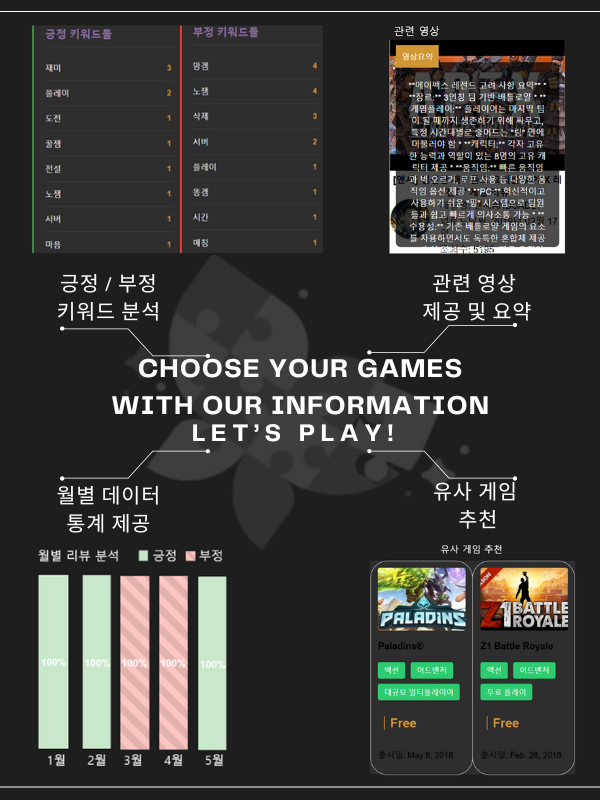
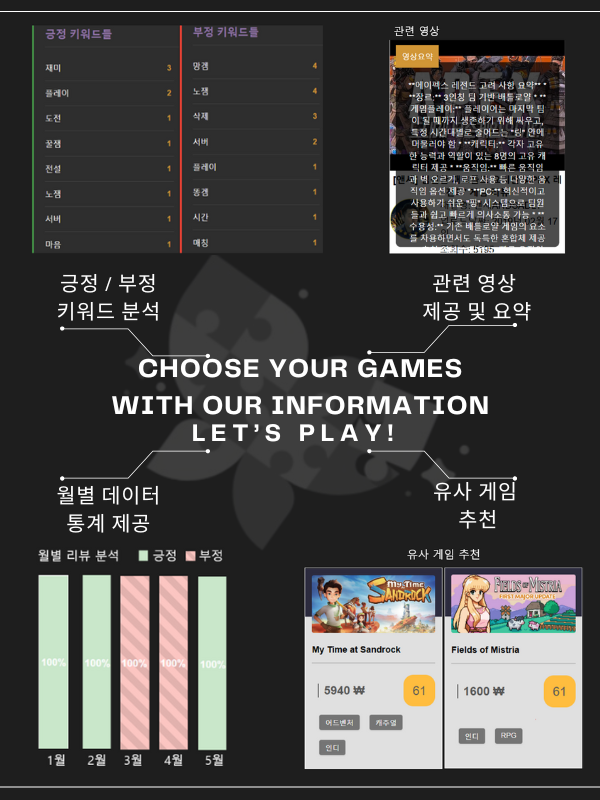
유사게임 카드 변경된 배너이미지, dashboard 수정

Changed region(s): [[0.48, 0.6562, 0.99, 0.9688]]

diff --git a/navi_취합_20241218/templates/dashboard.html b/navi_취합_20241218/templates/dashboard.html
@@ -21,15 +21,6 @@
 <div class="container">
     <div class="multi">
             <h1>{{ game.name }}</h1>
-            {% if positive_ratio == 0 %}
-                <span class="badge gray">{{ positive_ratio }}</span>
-            {% elif positive_ratio > 70 %}
-                <span class="badge green">{{ positive_ratio }}</span>
-            {% elif positive_ratio > 40 %}
-                <span class="badge yellow">{{ positive_ratio }}</span>
-            {% else %}
-                <span class="badge red">{{ positive_ratio }}</span>
-            {% endif %}
             <div class="buttons">
                 <button class="png" onclick="saveImg()">저장</button>
                 <button class="talk" onclick="kakaoShare()">공유</button>
@@ -279,7 +270,24 @@
 
             <div class="info">
                 <div class="info-section">
-                    <div class="info-section-title">카테고리:</div>
+                    <div class="info-section-title">분석 결과</div>
+                        <div class="info-list">
+                                <div class="positive_negative_ratio">
+                                {% if positive_ratio == 0 %}
+                                    <span class="badge gray">{{ positive_ratio }}</span>
+                                {% elif positive_ratio > 70 %}
+                                    <span class="badge green">{{ positive_ratio }}</span>
+                                {% elif positive_ratio > 40 %}
+                                    <span class="badge yellow">{{ positive_ratio }}</span>
+                                {% else %}
+                                    <span class="badge red">{{ positive_ratio }}</span>
+                                {% endif %}
+                                    <img src="{% static 'imgs/logo.png' %}" alt="Logo" style="width: 270px; height: auto;">
+                                </div>
+                        </div>
+                </div>
+                <div class="info-section">
+                    <div class="info-section-title">카테고리</div>
                     <div class="info-list">
                         {% for category in game.categories %}
                             <span class="info-tag">{{ category.description }}</span>
@@ -288,7 +296,7 @@
                 </div>
 
                 <div class="info-section">
-                    <div class="info-section-title">장르:</div>
+                    <div class="info-section-title">장르</div>
                     <div class="info-list">
                         {% for genre in game.genres %}
                             <span class="info-tag">{{ genre.description }}</span>
@@ -297,7 +305,7 @@
                 </div>
 
               <div class="info-section">
-                    <div class="info-section-title">태그:</div>
+                    <div class="info-section-title">태그</div>
                     <div class="info-list">
                         {% for tag in game.tags %}
                             <span class="info-tag"><a href="{% url 'tags' %}?tag={{ tag }}">{{ tag }}</a></span>
@@ -306,7 +314,7 @@
                 </div>
 
                 <div class="info-section">
-                    <div class="info-section-title">지원 언어:</div>
+                    <div class="info-section-title">지원 언어</div>
                     <div class="info-list">
                         {% for language in game.supported_languages %}
                             <span class="info-tag">{{ language }}</span>
@@ -315,14 +323,14 @@
                 </div>
 
                 <div class="info-section">
-                    <div class="info-section-title">출시일:</div>
+                    <div class="info-section-title">출시일</div>
                     <div class="info-list">
                             <span class="info-tag">{{ game.release_date }}</span>
                     </div>
                 </div>
 
                 <div class="info-section">
-                    <div class="info-section-title">개발사:</div>
+                    <div class="info-section-title">개발사</div>
                     <div class="info-list">
                         {% for developer in game.developers %}
                             <span class="info-tag">{{ developer }}</span>
@@ -331,7 +339,7 @@
                 </div>
 
                 <div class="info-section">
-                    <div class="info-section-title">배급사:</div>
+                    <div class="info-section-title">배급사</div>
                     <div class="info-list">
                         {% for publisher in game.publishers %}
                             <span class="info-tag">{{ publisher }}</span>
@@ -340,7 +348,7 @@
                 </div>
 
                 <div class="info-section">
-                    <div class="info-section-title">PC 요구 사항:</div>
+                    <div class="info-section-title">PC 요구 사항</div>
                     <div class="info-list">
                         {% for requirment in game.pc_requirements %}
                             <span class="info-tag">{{ requirment }}</span><br>

diff --git a/navi_취합_20241218/static/css/dashboard.css b/navi_취합_20241218/static/css/dashboard.css
@@ -1,4 +1,5 @@
 .container {
+    background-color: e0e0e0;
     width: 80%;
     max-width: 100%;
     margin: 0 auto;
@@ -70,7 +71,7 @@
     background-color: #ffffff;
     padding: 15px;
     border: 1px solid #ccc;
-    max-width: 100%;
+    flex-basis: 66.66%;
     overflow: hidden;
     box-sizing: border-box;
 }
@@ -79,6 +80,7 @@
     background-color: #f5f5f5;
     padding: 15px;
     border: 1px solid #ccc;
+    flex-basis: 33.33%;
 }
 
 
@@ -312,6 +314,7 @@
 .card-container {
     display: flex;
     justify-content: space-between;
+    position: relative;
     overflow-x: auto;
     width: 100%;
     gap:5px;
@@ -326,6 +329,7 @@
     display: flex;
     flex-direction: column;
     position: relative;
+    z-index: 0;
 }
 .card:hover {
     cursor: pointer;
@@ -498,11 +502,30 @@ button.purchase-btn:hover {
 .info-list {
     display: flex;
     flex-wrap: wrap;
-    gap: 10px;
+    align-items: center;
+}
+.positive_negative_ratio {
+    display: flex;
+    margin-left: 20px;
+    align-items: center;
+    gap: 20px;
 }
 
 .info-tag {
-    background-color: #2ecc71;
+    background-color: #757575;
+    color: white;
+    flex-wrap: wrap;
+    padding: 6px 12px;
+    font-size: 0.9em;
+    border-radius: 4px;
+    box-shadow: 0 1px 2px rgba(0, 0, 0, 0.1);
+    transition: background-color 0.3s ease;
+    text-decoration: none;
+    margin: 5px;
+
+}
+.info-tag a {
+    background-color: #757575;
     color: white;
     padding: 6px 12px;
     font-size: 0.9em;
@@ -510,6 +533,13 @@ button.purchase-btn:hover {
     white-space: nowrap;
     box-shadow: 0 1px 2px rgba(0, 0, 0, 0.1);
     transition: background-color 0.3s ease;
+    text-decoration: underline;
+}
+.info-tag a:active,
+.info-tag a:focus,
+.info-tag a:visited {
+    background-color: #757575;
+    color: white;
 }
 
 .period-analysis {
